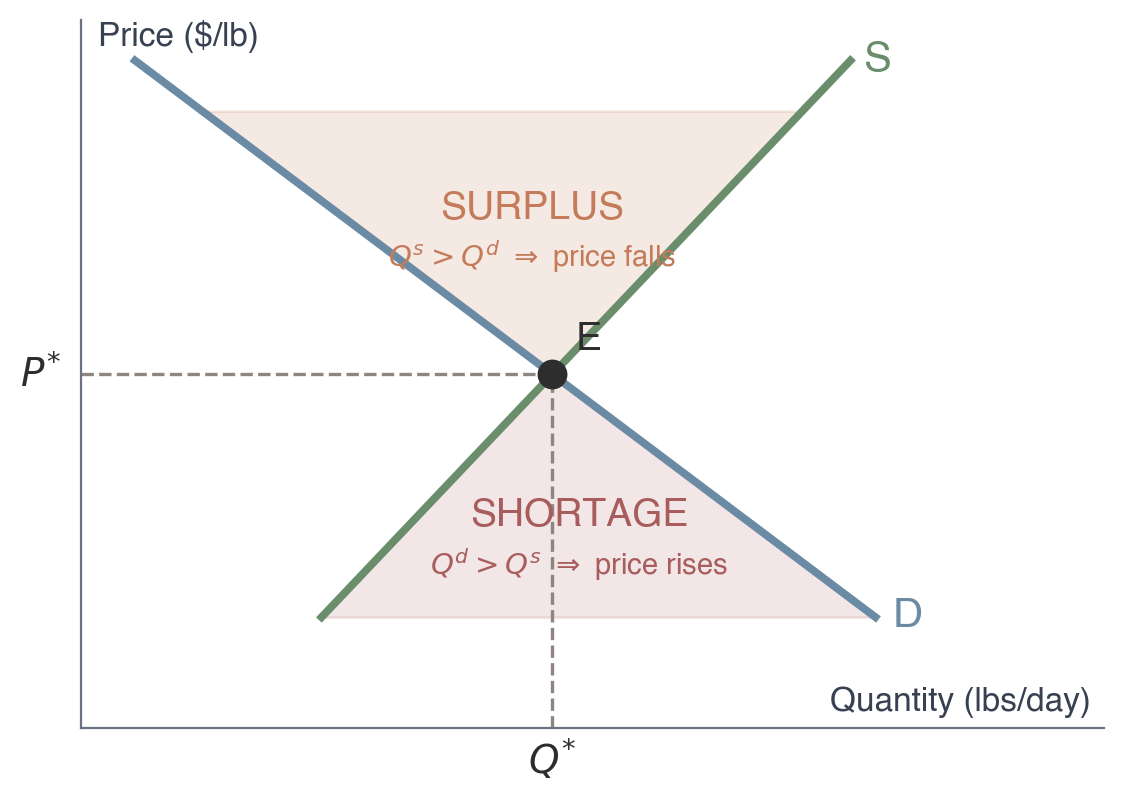
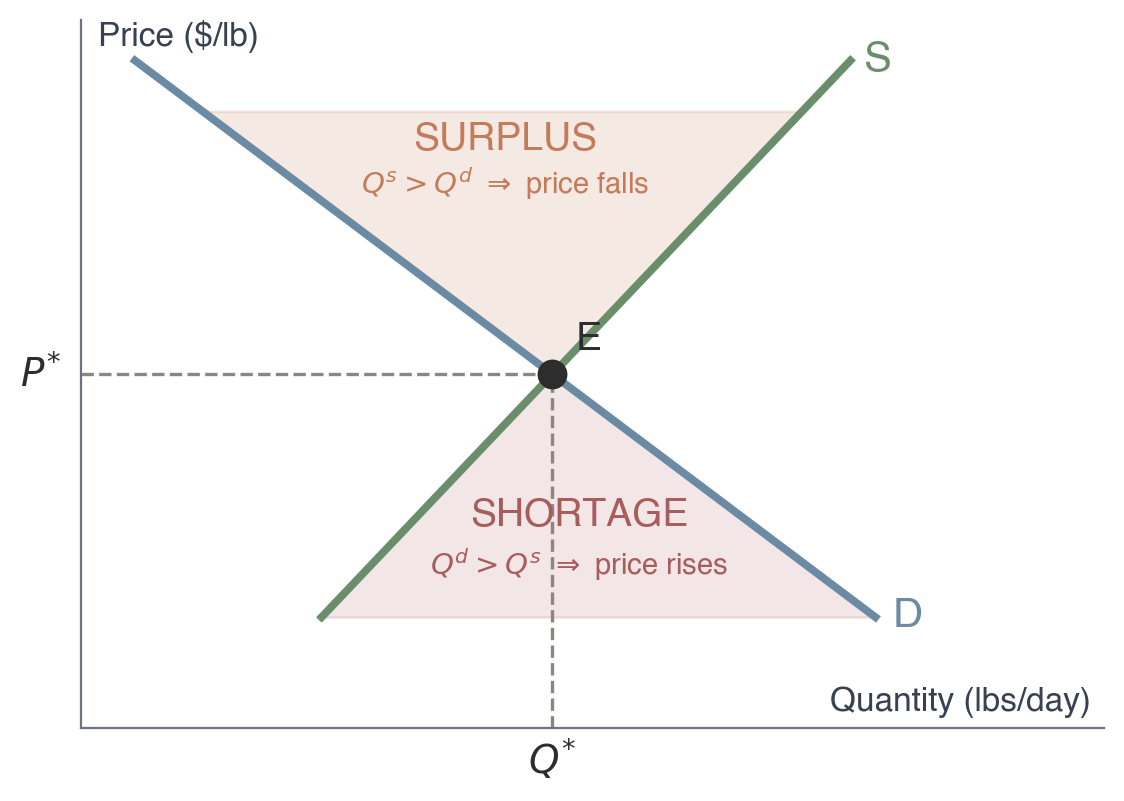
Ch 1 deck: split Maya into setup+solution, page 19 text-top/figures-bottom (Data left), move sandwich before circular-flow + add $12,680 forged-tools sequel, surplus text up

diff --git a/econ2316/ch01-adventures-in-microeconomics/index.html b/econ2316/ch01-adventures-in-microeconomics/index.html
@@ -274,6 +274,31 @@
 
 <!-- ===== Slide 6 — §1.1 the optimization template + Recall + fig 1-1 ===== -->
 
+      <section id="specialization">
+        <h2><i class="fa-solid fa-bread-slice" style="color: var(--accent-color);"></i> Why Nobody Builds a Sandwich From Scratch</h2>
+        <div style="display: grid; grid-template-columns: 0.92fr 1.08fr; gap: 18px; align-items: stretch;">
+          <div>
+            <div style="background: #fbf3ee; border-left: 4px solid var(--accent-color); border-radius: 8px; padding: 11px 16px; margin-bottom: 10px;">
+              <p style="font-size: 9.5pt; text-transform: uppercase; letter-spacing: 1px; color: var(--muted-color); font-weight: 700; margin: 0 0 2px;">2015 &mdash; sourced the food</p>
+              <p style="font-size: 25pt; font-weight: 800; color: var(--accent-color); margin: 0;">\$1,500</p>
+              <p style="font-size: 11.5pt; line-height: 1.45; margin: 4px 0 0;">Andy George (<em>How To Make Everything</em>) grew the wheat, evaporated seawater for salt, milked a cow, raised the chicken. Six months.</p>
+            </div>
+            <div style="background: #f6ece4; border-left: 4px solid var(--accent-color); border-radius: 8px; padding: 11px 16px;">
+              <p style="font-size: 9.5pt; text-transform: uppercase; letter-spacing: 1px; color: var(--muted-color); font-weight: 700; margin: 0 0 2px;">2025 &mdash; forged the tools too</p>
+              <p style="font-size: 25pt; font-weight: 800; color: var(--accent-color); margin: 0;">\$12,680</p>
+              <p style="font-size: 11.5pt; line-height: 1.45; margin: 4px 0 0;">The 10-year sequel: <em>extracting raw materials from the earth</em> &mdash; smelting iron, blowing glass, building tools, even hunting a hog with a handmade flintlock.</p>
+            </div>
+          </div>
+          <div>
+            <p style="font-size: 12.5pt; line-height: 1.5; margin: 0 0 8px;"><strong>Specialization and the gains from trade.</strong> A deli sandwich costs a few dollars because thousands of specialists &mdash; wheat farmers, beekeepers, dairies, bakers, toolmakers &mdash; each do the one thing they are relatively best at, then exchange.</p>
+            <div class="key-result" style="margin: 0;">
+              <p style="margin: 0; font-size: 12.5pt;">Every market in this book is machinery for coordinating that specialization. The deeper you go alone, the more the cost explodes &mdash; \$1,500 to \$12,680. The wage paying for all that effort returns as a factor price in <strong>Ch 19</strong>.</p>
+            </div>
+          </div>
+        </div>
+        <aside class="notes">The gains-from-trade hook. Andy George's How To Make Everything: in 2015 he made a chicken sandwich for ~$1,500 over six months by SOURCING every ingredient. For the 10-year anniversary (2025, "I Forged my Own Tools and Gun to Make This Sandwich From Scratch", ~1 hour) he went deeper - extracting raw materials and forging his own tools (smelt iron, throw ceramics, blow glass) and even a flintlock to hunt a hog - pushing the cost to ~$12,680. The escalation IS the lesson: self-sufficiency is absurdly expensive; specialization plus exchange is why a deli sandwich is a few dollars. This previews comparative advantage and the factor markets of Ch 19. Leads into the circular-flow diagram next - the whole-economy version of the same coordination.</aside>
+      </section>
+
       <section id="circular-flow">
         <h2><i class="fa-solid fa-arrows-spin" style="color: var(--accent-color);"></i> The Simplified Economy: Circular-Flow Diagram</h2>
         <div style="display: grid; grid-template-columns: 1.45fr 1fr; gap: 22px; align-items: center;">
@@ -391,28 +416,51 @@
 <!-- ===== Slide 8 — Walkthrough 1.1 Maya's time budget ===== -->
 <section id="walkthrough-1-1">
   <h2><i class="fa-solid fa-pen-to-square" style="color: var(--accent-color);"></i> Walkthrough 1.1 &mdash; A Student's Time Budget</h2>
-  <div style="display: grid; grid-template-columns: 1fr 1.12fr; gap: 20px; align-items: center;">
+  <div style="display: grid; grid-template-columns: 1.05fr 1fr; gap: 20px; align-items: center;">
     <div>
-      <div style="background: rgba(196, 123, 90, 0.10); border-left: 4px solid var(--accent-color); border-radius: 6px; padding: 9px 15px; margin: 0 0 10px;">
-        <p style="margin: 0; font-size: 11.5pt; line-height: 1.45;"><strong>Problem.</strong> Maya splits 97 free hours between study \(S\) and paid work \(W\) at \$18/hr. Study's value falls in blocks: \$30/hr (hrs 1&ndash;10), \$20 (11&ndash;20), \$15 (21&ndash;30), \$0 after.</p>
+      <div style="background: rgba(196, 123, 90, 0.10); border-left: 4px solid var(--accent-color); border-radius: 6px; padding: 10px 16px; margin: 0 0 12px;">
+        <p style="margin: 0; font-size: 12pt; line-height: 1.5;"><strong>Problem.</strong> Maya splits 97 free hours between study \(S\) and paid work \(W\) at \$18/hr. Study's value falls in blocks: \$30/hr (hrs 1&ndash;10), \$20 (11&ndash;20), \$15 (21&ndash;30), \$0 after. How should she split the 97 hours?</p>
       </div>
-      <div class="key-result" style="margin: 0 0 10px;">
-        <p style="margin: 0; font-size: 12pt;"><strong>Rule:</strong> give each hour to whichever pays more <em>at the margin</em> &mdash; study while its value beats the \$18 wage, switch to work once it drops below.</p>
-      </div>
-      <p style="font-size: 12.5pt; line-height: 1.5; margin: 0 0 9px;">Study wins through hour 20 (\$20 &gt; \$18); at hour 21 it falls to \$15 &lt; \$18. So <strong>\(S^{*}=20\)</strong>, <strong>\(W^{*}=77\)</strong>.</p>
-      <div style="background: #f1f5f8; border-radius: 8px; padding: 9px 15px;">
-        <p style="margin: 0; font-size: 12pt;">\[ V^{*} = \underbrace{10(30)+10(20)}_{\text{study}} + \underbrace{77(18)}_{\text{work}} = \$1{,}886 \]</p>
-      </div>
+      <p style="font-size: 12.5pt; font-weight: 700; margin: 0 0 6px;">Solve it in steps:</p>
+      <p class="fragment fade-up" style="font-size: 12.5pt; line-height: 1.5; margin: 0 0 5px;"><strong>1.</strong> List each study block's marginal value (MV).</p>
+      <p class="fragment fade-up" style="font-size: 12.5pt; line-height: 1.5; margin: 0 0 5px;"><strong>2.</strong> Compare each block to the flat \$18 wage.</p>
+      <p class="fragment fade-up" style="font-size: 12.5pt; line-height: 1.5; margin: 0;"><strong>3.</strong> Give each hour to whichever pays more <em>at the margin</em> &mdash; study while MV beats the wage.</p>
     </div>
     <div>
+      <table class="pm" style="font-size: 12.5pt; margin: 0 0 8px;">
+        <tr><th>Study block</th><th>MV/hr</th><th>vs \$18 wage</th></tr>
+        <tr><td>1&ndash;10</td><td>\$30</td><td class="hi">study</td></tr>
+        <tr><td>11&ndash;20</td><td>\$20</td><td class="hi">study</td></tr>
+        <tr><td>21&ndash;30</td><td>\$15</td><td>work</td></tr>
+        <tr><td>31+</td><td>\$0</td><td>work</td></tr>
+      </table>
+      <p style="font-size: 11.5pt; color: var(--muted-color); font-style: italic; margin: 0;">Study beats the wage through hour 20; at hour 21 its value drops below \$18.</p>
+    </div>
+  </div>
+  <aside class="notes">Setup slide. Read the problem, then lay out the method as three steps. The table is the engine: each study block's marginal value next to the flat $18 wage. Cold-call: where does study stop being worth it? The next slide solves it visually with the marginal-value staircase.</aside>
+</section>
+
+      <section id="walkthrough-1-1-solution">
+  <h2><i class="fa-solid fa-circle-check" style="color: var(--success-color);"></i> Walkthrough 1.1 &mdash; Solution</h2>
+  <div style="display: grid; grid-template-columns: 1.12fr 1fr; gap: 20px; align-items: center;">
+    <div>
       <img alt="Step chart: study's marginal value falls in blocks of $30, $20, $15, then $0, while the wage is a flat $18; Maya studies while marginal value exceeds the wage and switches to paid work at 20 hours of study" src="figures/maya-marginal-value.png" style="width: 100%; border-radius: 8px;">
+    </div>
+    <div>
+      <p style="font-size: 12.5pt; line-height: 1.5; margin: 0 0 10px;">Study wins through hour 20 (\$20 &gt; \$18); at hour 21 it drops to \$15 &lt; \$18 &mdash; the <strong>crossover</strong>.</p>
+      <div class="key-result" style="margin: 0 0 10px;">
+        <p style="margin: 0; font-size: 13pt;">\(S^{*}=20\) (study), \(W^{*}=77\) (work)</p>
+      </div>
+      <div style="background: #f1f5f8; border-radius: 8px; padding: 10px 15px;">
+        <p style="margin: 0; font-size: 12pt;">\[ V^{*} = \underbrace{10(30)+10(20)}_{\text{study}} + \underbrace{77(18)}_{\text{work}} = \$1{,}886 \]</p>
+      </div>
     </div>
   </div>
   <div class="heads-up" style="margin-top: 10px;">
     <p class="hu-tag"><i class="fa-solid fa-lightbulb"></i> Takeaway &mdash; the optimum is where the margins meet</p>
     <p class="body">The last hour of study is worth as much as the last hour of work. Raise the wage to \$25 and the switch flips to hour 11 &mdash; higher wages crowd out studying. In Ch 5 we swap the step function for a smooth utility function and solve the same problem with the Lagrangian. Maya recurs in Chs 5, 6, and 19.</p>
   </div>
-  <aside class="notes">The chart carries the intuition: study's marginal value is the descending blue staircase ($30, $20, $15, $0); the wage is the flat orange line at $18. She takes every hour whose bar sits ABOVE the wage line and switches the moment it drops below - the optimum is the crossover at S* = 20, W* = 77. No calculus needed because the steps are discrete - just compare each block to $18. Two ideas recur all book: the optimum sits where marginal value meets marginal opportunity cost, and the comparative static (wage to $25 shifts S* from 20 to 10) is the engine - change a parameter, re-solve, read the new optimum. Discrete steps foreshadow the corner solutions of Ch 5.</aside>
+  <aside class="notes">The chart carries the intuition: study's marginal value is the descending blue staircase ($30, $20, $15, $0); the wage is the flat orange line at $18. Take every hour whose bar sits ABOVE the wage line and switch the moment it drops below - the optimum is the crossover at S* = 20, W* = 77, value $1,886. The comparative static (wage to $25 shifts S* from 20 to 10) is the engine of the whole book.</aside>
 </section>
 
 <!-- ===== Slide 9 — Section divider §1.2 ===== -->
@@ -447,40 +495,31 @@
 
       <section id="equilibrium">
   <h2><i class="fa-solid fa-scale-balanced" style="color: var(--accent-color);"></i> Equilibrium Is a Mutual Best Response</h2>
-  <div style="display: grid; grid-template-columns: 1fr 1fr; gap: 20px; align-items: start;">
-    <div>
-      <div style="background: #fef2f2; border-left: 4px solid var(--danger-color); border-radius: 10px; padding: 11px 16px; margin-bottom: 10px;">
-        <p style="font-size: 10pt; text-transform: uppercase; letter-spacing: 1.2px; color: var(--danger-color); font-weight: 700; margin: 0 0 4px;">Wrong intuition</p>
-        <p style="font-size: 12.5pt; line-height: 1.5; margin: 0;">"Equilibrium" = a system at rest because <em>nothing is happening</em>.</p>
-      </div>
-      <div style="background: #f0f5f0; border-left: 4px solid var(--success-color); border-radius: 10px; padding: 11px 16px; margin-bottom: 10px;">
-        <p style="font-size: 10pt; text-transform: uppercase; letter-spacing: 1.2px; color: var(--success-color); font-weight: 700; margin: 0 0 4px;">Right intuition</p>
-        <p style="font-size: 12.5pt; line-height: 1.5; margin: 0 0 6px;">Each agent's action is already the <strong>optimal response</strong> to every other agent's. <strong>No one wants to change.</strong></p>
-        <p style="font-size: 12pt; line-height: 1.5; margin: 0; color: var(--text-color);">Shock it &rarr; agents re-optimize against each other's new best moves &rarr; a new mutual best-response.</p>
-      </div>
-      <div style="background: #f8f6f3; border-left: 4px solid var(--secondary-color); border-radius: 10px; padding: 11px 16px;">
-        <p style="font-size: 10pt; text-transform: uppercase; letter-spacing: 1.2px; color: var(--secondary-color); font-weight: 700; margin: 0 0 4px;">The interesting questions</p>
-        <p style="font-size: 12.5pt; line-height: 1.5; margin: 0;">Which way does the system move? How fast does it return?</p>
-      </div>
+  <div style="display: grid; grid-template-columns: 1fr 1.3fr 1fr; gap: 14px; margin-bottom: 12px; align-items: stretch;">
+    <div style="background: #fef2f2; border-left: 4px solid var(--danger-color); border-radius: 10px; padding: 10px 15px;">
+      <p style="font-size: 9.5pt; text-transform: uppercase; letter-spacing: 1.1px; color: var(--danger-color); font-weight: 700; margin: 0 0 4px;">Wrong intuition</p>
+      <p style="font-size: 12pt; line-height: 1.45; margin: 0;">"Equilibrium" = a system at rest because <em>nothing is happening</em>.</p>
     </div>
-    <div>
-      <p style="font-size: 11.5pt; line-height: 1.45; color: var(--muted-color); margin: 0 0 6px;">The egg market, 2022&ndash;25: avian flu culled ~168M laying hens &mdash; supply shifted sharply inward, demand barely moved.</p>
-      <div style="display: grid; grid-template-columns: 1fr 1fr; gap: 10px; align-items: start;">
-        <figure style="margin: 0;">
-          <img alt="Two-panel supply and demand diagram of the egg market: a leftward supply shift from the avian-flu hen loss moves equilibrium up and to the left, a large price rise with a small quantity fall because demand is steep" src="figures/figure-1-3-egg-shock.png" style="width: 100%; border-radius: 6px;">
-          <figcaption style="text-align: center; font-size: 10pt; color: var(--secondary-color); font-weight: 600; margin-top: 3px;">Theory: supply shifts in</figcaption>
-        </figure>
-        <figure style="margin: 0;">
-          <img alt="Time series of the FRED price per dozen Grade A large eggs from 2019 to 2025, with shaded bands over the two avian-flu culling episodes and a spike to nearly five dollars in early 2025" src="figures/figure-1-4-egg-prices-fred.png" style="width: 100%; border-radius: 6px;">
-          <figcaption style="text-align: center; font-size: 10pt; color: var(--secondary-color); font-weight: 600; margin-top: 3px;">Data: the price spike</figcaption>
-        </figure>
-      </div>
-      <div class="key-result" style="margin: 10px 0 0;">
-        <p style="margin: 0; font-size: 12pt;">Steep (inelastic) demand turns a supply shock into a big <strong>price</strong> move and a small <strong>quantity</strong> move &mdash; the Jan 2025 dozen hit \$4.95, up ~96% year-over-year.</p>
-      </div>
+    <div style="background: #f0f5f0; border-left: 4px solid var(--success-color); border-radius: 10px; padding: 10px 15px;">
+      <p style="font-size: 9.5pt; text-transform: uppercase; letter-spacing: 1.1px; color: var(--success-color); font-weight: 700; margin: 0 0 4px;">Right intuition</p>
+      <p style="font-size: 12pt; line-height: 1.45; margin: 0;">Each agent's action is already the <strong>optimal response</strong> to every other's. <strong>No one wants to change.</strong> Shock it &rarr; agents re-optimize &rarr; a new mutual best-response.</p>
+    </div>
+    <div style="background: #f8f6f3; border-left: 4px solid var(--secondary-color); border-radius: 10px; padding: 10px 15px;">
+      <p style="font-size: 9.5pt; text-transform: uppercase; letter-spacing: 1.1px; color: var(--secondary-color); font-weight: 700; margin: 0 0 4px;">The interesting questions</p>
+      <p style="font-size: 12pt; line-height: 1.45; margin: 0;">Which way does the system move? How fast does it return?</p>
     </div>
   </div>
-  <aside class="notes">The everyday meaning of "equilibrium" - a system at rest - is misleading. It is at rest not because nothing happens but because each agent's action is already the optimal response to everyone else's. Shock it and it leaves equilibrium; which way it moves and how fast it returns need more structure than the bare definition - that is the whole agenda of Ch 2-3. The egg market is the cleanest recent illustration: an inward supply shift against steep demand lands almost entirely on price. The short-run/long-run distinction (supply near-vertical now, flatter once flocks rebuild) returns formally in Chs 8-10. FRED series APU0000708111.</aside>
+  <div style="display: grid; grid-template-columns: 1fr 1fr; gap: 18px; align-items: start;">
+    <figure style="margin: 0;">
+      <img alt="Time series of the FRED price per dozen Grade A large eggs from 2019 to 2025, with shaded bands over the two avian-flu culling episodes and a spike to nearly five dollars in early 2025" src="figures/figure-1-4-egg-prices-fred.png" style="width: 100%; border-radius: 6px;">
+      <figcaption style="text-align: center; font-size: 10.5pt; color: var(--secondary-color); font-weight: 600; margin-top: 3px;">Data: the price spike &mdash; Jan 2025 dozen hit \$4.95, +96% YoY</figcaption>
+    </figure>
+    <figure style="margin: 0;">
+      <img alt="Two-panel supply and demand diagram of the egg market: a leftward supply shift from the avian-flu hen loss moves equilibrium up and to the left, a large price rise with a small quantity fall because demand is steep" src="figures/figure-1-3-egg-shock.png" style="width: 100%; border-radius: 6px;">
+      <figcaption style="text-align: center; font-size: 10.5pt; color: var(--secondary-color); font-weight: 600; margin-top: 3px;">Theory: supply shifts in &mdash; steep demand &rArr; big price, small quantity move</figcaption>
+    </figure>
+  </div>
+  <aside class="notes">Equilibrium is at rest not because nothing happens but because each agent's action is already the optimal response to everyone else's. The egg market (2022-25): avian flu culled ~168M hens, an inward supply shift against steep demand that landed almost entirely on price. Theory (the S/D shift) predicts the direction; data (the FRED spike to $4.95, +96%) shows the size. The short-run/long-run distinction returns in Chs 8-10. FRED APU0000708111.</aside>
 </section>
 
       <section id="information-key">
@@ -564,23 +603,6 @@
               <p style="margin: 0 0 6px; font-size: 12.5pt;"><strong>A thread we pull all term:</strong></p>
               <p style="margin: 0 0 4px; font-size: 12pt;"><i class="fa-solid fa-arrow-right" style="color: var(--secondary-color);"></i> Modeled formally in <strong>Ch 2</strong> (supply &amp; demand).</p>
               <p style="margin: 0; font-size: 12pt;"><i class="fa-solid fa-arrow-right" style="color: var(--secondary-color);"></i> Again as <strong>price discrimination</strong> in <strong>Ch 12</strong>.</p>
-            </div>
-          </div>
-        </div>
-      </section>
-
-      <section id="specialization">
-        <h2><i class="fa-solid fa-bread-slice" style="color: var(--accent-color);"></i> Why Nobody Builds a Sandwich From Scratch</h2>
-        <div style="display: grid; grid-template-columns: 0.85fr 1.15fr; gap: 16px; align-items: start;">
-          <div style="background: #fbf3ee; border-left: 4px solid var(--accent-color); border-radius: 8px; padding: 14px 18px;">
-            <p style="font-size: 30pt; font-weight: 800; color: var(--accent-color); margin: 0;">\$1,500</p>
-            <p style="font-size: 12.5pt; line-height: 1.5; margin: 6px 0 0;">Andy George (<em>How To Make Everything</em>) grew the wheat, evaporated seawater for salt, milked a cow, raised the chicken.</p>
-            <p style="font-size: 12pt; color: var(--muted-color); margin: 6px 0 0;">Six months. One sandwich.</p>
-          </div>
-          <div>
-            <p style="font-size: 12.5pt; line-height: 1.5; margin: 0 0 8px;"><strong>Specialization and the gains from trade.</strong> A deli sandwich costs a few dollars because thousands of specialists &mdash; wheat farmers, beekeepers, dairies, bakers &mdash; each do the one thing they are relatively best at, then exchange.</p>
-            <div class="key-result" style="margin: 0;">
-              <p style="margin: 0; font-size: 12.5pt;">Every market in this book is machinery for coordinating that specialization. <strong>Equilibrium = all those plans meshing.</strong> The wage paying for those six months returns as a factor price in <strong>Ch 19</strong>.</p>
             </div>
           </div>
         </div>

diff --git a/econ2316/ch01-adventures-in-microeconomics/presentation.html b/econ2316/ch01-adventures-in-microeconomics/presentation.html
@@ -274,6 +274,31 @@
 
 <!-- ===== Slide 6 — §1.1 the optimization template + Recall + fig 1-1 ===== -->
 
+      <section id="specialization">
+        <h2><i class="fa-solid fa-bread-slice" style="color: var(--accent-color);"></i> Why Nobody Builds a Sandwich From Scratch</h2>
+        <div style="display: grid; grid-template-columns: 0.92fr 1.08fr; gap: 18px; align-items: stretch;">
+          <div>
+            <div style="background: #fbf3ee; border-left: 4px solid var(--accent-color); border-radius: 8px; padding: 11px 16px; margin-bottom: 10px;">
+              <p style="font-size: 9.5pt; text-transform: uppercase; letter-spacing: 1px; color: var(--muted-color); font-weight: 700; margin: 0 0 2px;">2015 &mdash; sourced the food</p>
+              <p style="font-size: 25pt; font-weight: 800; color: var(--accent-color); margin: 0;">\$1,500</p>
+              <p style="font-size: 11.5pt; line-height: 1.45; margin: 4px 0 0;">Andy George (<em>How To Make Everything</em>) grew the wheat, evaporated seawater for salt, milked a cow, raised the chicken. Six months.</p>
+            </div>
+            <div style="background: #f6ece4; border-left: 4px solid var(--accent-color); border-radius: 8px; padding: 11px 16px;">
+              <p style="font-size: 9.5pt; text-transform: uppercase; letter-spacing: 1px; color: var(--muted-color); font-weight: 700; margin: 0 0 2px;">2025 &mdash; forged the tools too</p>
+              <p style="font-size: 25pt; font-weight: 800; color: var(--accent-color); margin: 0;">\$12,680</p>
+              <p style="font-size: 11.5pt; line-height: 1.45; margin: 4px 0 0;">The 10-year sequel: <em>extracting raw materials from the earth</em> &mdash; smelting iron, blowing glass, building tools, even hunting a hog with a handmade flintlock.</p>
+            </div>
+          </div>
+          <div>
+            <p style="font-size: 12.5pt; line-height: 1.5; margin: 0 0 8px;"><strong>Specialization and the gains from trade.</strong> A deli sandwich costs a few dollars because thousands of specialists &mdash; wheat farmers, beekeepers, dairies, bakers, toolmakers &mdash; each do the one thing they are relatively best at, then exchange.</p>
+            <div class="key-result" style="margin: 0;">
+              <p style="margin: 0; font-size: 12.5pt;">Every market in this book is machinery for coordinating that specialization. The deeper you go alone, the more the cost explodes &mdash; \$1,500 to \$12,680. The wage paying for all that effort returns as a factor price in <strong>Ch 19</strong>.</p>
+            </div>
+          </div>
+        </div>
+        <aside class="notes">The gains-from-trade hook. Andy George's How To Make Everything: in 2015 he made a chicken sandwich for ~$1,500 over six months by SOURCING every ingredient. For the 10-year anniversary (2025, "I Forged my Own Tools and Gun to Make This Sandwich From Scratch", ~1 hour) he went deeper - extracting raw materials and forging his own tools (smelt iron, throw ceramics, blow glass) and even a flintlock to hunt a hog - pushing the cost to ~$12,680. The escalation IS the lesson: self-sufficiency is absurdly expensive; specialization plus exchange is why a deli sandwich is a few dollars. This previews comparative advantage and the factor markets of Ch 19. Leads into the circular-flow diagram next - the whole-economy version of the same coordination.</aside>
+      </section>
+
       <section id="circular-flow">
         <h2><i class="fa-solid fa-arrows-spin" style="color: var(--accent-color);"></i> The Simplified Economy: Circular-Flow Diagram</h2>
         <div style="display: grid; grid-template-columns: 1.45fr 1fr; gap: 22px; align-items: center;">
@@ -391,28 +416,51 @@
 <!-- ===== Slide 8 — Walkthrough 1.1 Maya's time budget ===== -->
 <section id="walkthrough-1-1">
   <h2><i class="fa-solid fa-pen-to-square" style="color: var(--accent-color);"></i> Walkthrough 1.1 &mdash; A Student's Time Budget</h2>
-  <div style="display: grid; grid-template-columns: 1fr 1.12fr; gap: 20px; align-items: center;">
+  <div style="display: grid; grid-template-columns: 1.05fr 1fr; gap: 20px; align-items: center;">
     <div>
-      <div style="background: rgba(196, 123, 90, 0.10); border-left: 4px solid var(--accent-color); border-radius: 6px; padding: 9px 15px; margin: 0 0 10px;">
-        <p style="margin: 0; font-size: 11.5pt; line-height: 1.45;"><strong>Problem.</strong> Maya splits 97 free hours between study \(S\) and paid work \(W\) at \$18/hr. Study's value falls in blocks: \$30/hr (hrs 1&ndash;10), \$20 (11&ndash;20), \$15 (21&ndash;30), \$0 after.</p>
+      <div style="background: rgba(196, 123, 90, 0.10); border-left: 4px solid var(--accent-color); border-radius: 6px; padding: 10px 16px; margin: 0 0 12px;">
+        <p style="margin: 0; font-size: 12pt; line-height: 1.5;"><strong>Problem.</strong> Maya splits 97 free hours between study \(S\) and paid work \(W\) at \$18/hr. Study's value falls in blocks: \$30/hr (hrs 1&ndash;10), \$20 (11&ndash;20), \$15 (21&ndash;30), \$0 after. How should she split the 97 hours?</p>
       </div>
-      <div class="key-result" style="margin: 0 0 10px;">
-        <p style="margin: 0; font-size: 12pt;"><strong>Rule:</strong> give each hour to whichever pays more <em>at the margin</em> &mdash; study while its value beats the \$18 wage, switch to work once it drops below.</p>
-      </div>
-      <p style="font-size: 12.5pt; line-height: 1.5; margin: 0 0 9px;">Study wins through hour 20 (\$20 &gt; \$18); at hour 21 it falls to \$15 &lt; \$18. So <strong>\(S^{*}=20\)</strong>, <strong>\(W^{*}=77\)</strong>.</p>
-      <div style="background: #f1f5f8; border-radius: 8px; padding: 9px 15px;">
-        <p style="margin: 0; font-size: 12pt;">\[ V^{*} = \underbrace{10(30)+10(20)}_{\text{study}} + \underbrace{77(18)}_{\text{work}} = \$1{,}886 \]</p>
-      </div>
+      <p style="font-size: 12.5pt; font-weight: 700; margin: 0 0 6px;">Solve it in steps:</p>
+      <p class="fragment fade-up" style="font-size: 12.5pt; line-height: 1.5; margin: 0 0 5px;"><strong>1.</strong> List each study block's marginal value (MV).</p>
+      <p class="fragment fade-up" style="font-size: 12.5pt; line-height: 1.5; margin: 0 0 5px;"><strong>2.</strong> Compare each block to the flat \$18 wage.</p>
+      <p class="fragment fade-up" style="font-size: 12.5pt; line-height: 1.5; margin: 0;"><strong>3.</strong> Give each hour to whichever pays more <em>at the margin</em> &mdash; study while MV beats the wage.</p>
     </div>
     <div>
+      <table class="pm" style="font-size: 12.5pt; margin: 0 0 8px;">
+        <tr><th>Study block</th><th>MV/hr</th><th>vs \$18 wage</th></tr>
+        <tr><td>1&ndash;10</td><td>\$30</td><td class="hi">study</td></tr>
+        <tr><td>11&ndash;20</td><td>\$20</td><td class="hi">study</td></tr>
+        <tr><td>21&ndash;30</td><td>\$15</td><td>work</td></tr>
+        <tr><td>31+</td><td>\$0</td><td>work</td></tr>
+      </table>
+      <p style="font-size: 11.5pt; color: var(--muted-color); font-style: italic; margin: 0;">Study beats the wage through hour 20; at hour 21 its value drops below \$18.</p>
+    </div>
+  </div>
+  <aside class="notes">Setup slide. Read the problem, then lay out the method as three steps. The table is the engine: each study block's marginal value next to the flat $18 wage. Cold-call: where does study stop being worth it? The next slide solves it visually with the marginal-value staircase.</aside>
+</section>
+
+      <section id="walkthrough-1-1-solution">
+  <h2><i class="fa-solid fa-circle-check" style="color: var(--success-color);"></i> Walkthrough 1.1 &mdash; Solution</h2>
+  <div style="display: grid; grid-template-columns: 1.12fr 1fr; gap: 20px; align-items: center;">
+    <div>
       <img alt="Step chart: study's marginal value falls in blocks of $30, $20, $15, then $0, while the wage is a flat $18; Maya studies while marginal value exceeds the wage and switches to paid work at 20 hours of study" src="figures/maya-marginal-value.png" style="width: 100%; border-radius: 8px;">
+    </div>
+    <div>
+      <p style="font-size: 12.5pt; line-height: 1.5; margin: 0 0 10px;">Study wins through hour 20 (\$20 &gt; \$18); at hour 21 it drops to \$15 &lt; \$18 &mdash; the <strong>crossover</strong>.</p>
+      <div class="key-result" style="margin: 0 0 10px;">
+        <p style="margin: 0; font-size: 13pt;">\(S^{*}=20\) (study), \(W^{*}=77\) (work)</p>
+      </div>
+      <div style="background: #f1f5f8; border-radius: 8px; padding: 10px 15px;">
+        <p style="margin: 0; font-size: 12pt;">\[ V^{*} = \underbrace{10(30)+10(20)}_{\text{study}} + \underbrace{77(18)}_{\text{work}} = \$1{,}886 \]</p>
+      </div>
     </div>
   </div>
   <div class="heads-up" style="margin-top: 10px;">
     <p class="hu-tag"><i class="fa-solid fa-lightbulb"></i> Takeaway &mdash; the optimum is where the margins meet</p>
     <p class="body">The last hour of study is worth as much as the last hour of work. Raise the wage to \$25 and the switch flips to hour 11 &mdash; higher wages crowd out studying. In Ch 5 we swap the step function for a smooth utility function and solve the same problem with the Lagrangian. Maya recurs in Chs 5, 6, and 19.</p>
   </div>
-  <aside class="notes">The chart carries the intuition: study's marginal value is the descending blue staircase ($30, $20, $15, $0); the wage is the flat orange line at $18. She takes every hour whose bar sits ABOVE the wage line and switches the moment it drops below - the optimum is the crossover at S* = 20, W* = 77. No calculus needed because the steps are discrete - just compare each block to $18. Two ideas recur all book: the optimum sits where marginal value meets marginal opportunity cost, and the comparative static (wage to $25 shifts S* from 20 to 10) is the engine - change a parameter, re-solve, read the new optimum. Discrete steps foreshadow the corner solutions of Ch 5.</aside>
+  <aside class="notes">The chart carries the intuition: study's marginal value is the descending blue staircase ($30, $20, $15, $0); the wage is the flat orange line at $18. Take every hour whose bar sits ABOVE the wage line and switch the moment it drops below - the optimum is the crossover at S* = 20, W* = 77, value $1,886. The comparative static (wage to $25 shifts S* from 20 to 10) is the engine of the whole book.</aside>
 </section>
 
 <!-- ===== Slide 9 — Section divider §1.2 ===== -->
@@ -447,40 +495,31 @@
 
       <section id="equilibrium">
   <h2><i class="fa-solid fa-scale-balanced" style="color: var(--accent-color);"></i> Equilibrium Is a Mutual Best Response</h2>
-  <div style="display: grid; grid-template-columns: 1fr 1fr; gap: 20px; align-items: start;">
-    <div>
-      <div style="background: #fef2f2; border-left: 4px solid var(--danger-color); border-radius: 10px; padding: 11px 16px; margin-bottom: 10px;">
-        <p style="font-size: 10pt; text-transform: uppercase; letter-spacing: 1.2px; color: var(--danger-color); font-weight: 700; margin: 0 0 4px;">Wrong intuition</p>
-        <p style="font-size: 12.5pt; line-height: 1.5; margin: 0;">"Equilibrium" = a system at rest because <em>nothing is happening</em>.</p>
-      </div>
-      <div style="background: #f0f5f0; border-left: 4px solid var(--success-color); border-radius: 10px; padding: 11px 16px; margin-bottom: 10px;">
-        <p style="font-size: 10pt; text-transform: uppercase; letter-spacing: 1.2px; color: var(--success-color); font-weight: 700; margin: 0 0 4px;">Right intuition</p>
-        <p style="font-size: 12.5pt; line-height: 1.5; margin: 0 0 6px;">Each agent's action is already the <strong>optimal response</strong> to every other agent's. <strong>No one wants to change.</strong></p>
-        <p style="font-size: 12pt; line-height: 1.5; margin: 0; color: var(--text-color);">Shock it &rarr; agents re-optimize against each other's new best moves &rarr; a new mutual best-response.</p>
-      </div>
-      <div style="background: #f8f6f3; border-left: 4px solid var(--secondary-color); border-radius: 10px; padding: 11px 16px;">
-        <p style="font-size: 10pt; text-transform: uppercase; letter-spacing: 1.2px; color: var(--secondary-color); font-weight: 700; margin: 0 0 4px;">The interesting questions</p>
-        <p style="font-size: 12.5pt; line-height: 1.5; margin: 0;">Which way does the system move? How fast does it return?</p>
-      </div>
+  <div style="display: grid; grid-template-columns: 1fr 1.3fr 1fr; gap: 14px; margin-bottom: 12px; align-items: stretch;">
+    <div style="background: #fef2f2; border-left: 4px solid var(--danger-color); border-radius: 10px; padding: 10px 15px;">
+      <p style="font-size: 9.5pt; text-transform: uppercase; letter-spacing: 1.1px; color: var(--danger-color); font-weight: 700; margin: 0 0 4px;">Wrong intuition</p>
+      <p style="font-size: 12pt; line-height: 1.45; margin: 0;">"Equilibrium" = a system at rest because <em>nothing is happening</em>.</p>
     </div>
-    <div>
-      <p style="font-size: 11.5pt; line-height: 1.45; color: var(--muted-color); margin: 0 0 6px;">The egg market, 2022&ndash;25: avian flu culled ~168M laying hens &mdash; supply shifted sharply inward, demand barely moved.</p>
-      <div style="display: grid; grid-template-columns: 1fr 1fr; gap: 10px; align-items: start;">
-        <figure style="margin: 0;">
-          <img alt="Two-panel supply and demand diagram of the egg market: a leftward supply shift from the avian-flu hen loss moves equilibrium up and to the left, a large price rise with a small quantity fall because demand is steep" src="figures/figure-1-3-egg-shock.png" style="width: 100%; border-radius: 6px;">
-          <figcaption style="text-align: center; font-size: 10pt; color: var(--secondary-color); font-weight: 600; margin-top: 3px;">Theory: supply shifts in</figcaption>
-        </figure>
-        <figure style="margin: 0;">
-          <img alt="Time series of the FRED price per dozen Grade A large eggs from 2019 to 2025, with shaded bands over the two avian-flu culling episodes and a spike to nearly five dollars in early 2025" src="figures/figure-1-4-egg-prices-fred.png" style="width: 100%; border-radius: 6px;">
-          <figcaption style="text-align: center; font-size: 10pt; color: var(--secondary-color); font-weight: 600; margin-top: 3px;">Data: the price spike</figcaption>
-        </figure>
-      </div>
-      <div class="key-result" style="margin: 10px 0 0;">
-        <p style="margin: 0; font-size: 12pt;">Steep (inelastic) demand turns a supply shock into a big <strong>price</strong> move and a small <strong>quantity</strong> move &mdash; the Jan 2025 dozen hit \$4.95, up ~96% year-over-year.</p>
-      </div>
+    <div style="background: #f0f5f0; border-left: 4px solid var(--success-color); border-radius: 10px; padding: 10px 15px;">
+      <p style="font-size: 9.5pt; text-transform: uppercase; letter-spacing: 1.1px; color: var(--success-color); font-weight: 700; margin: 0 0 4px;">Right intuition</p>
+      <p style="font-size: 12pt; line-height: 1.45; margin: 0;">Each agent's action is already the <strong>optimal response</strong> to every other's. <strong>No one wants to change.</strong> Shock it &rarr; agents re-optimize &rarr; a new mutual best-response.</p>
+    </div>
+    <div style="background: #f8f6f3; border-left: 4px solid var(--secondary-color); border-radius: 10px; padding: 10px 15px;">
+      <p style="font-size: 9.5pt; text-transform: uppercase; letter-spacing: 1.1px; color: var(--secondary-color); font-weight: 700; margin: 0 0 4px;">The interesting questions</p>
+      <p style="font-size: 12pt; line-height: 1.45; margin: 0;">Which way does the system move? How fast does it return?</p>
     </div>
   </div>
-  <aside class="notes">The everyday meaning of "equilibrium" - a system at rest - is misleading. It is at rest not because nothing happens but because each agent's action is already the optimal response to everyone else's. Shock it and it leaves equilibrium; which way it moves and how fast it returns need more structure than the bare definition - that is the whole agenda of Ch 2-3. The egg market is the cleanest recent illustration: an inward supply shift against steep demand lands almost entirely on price. The short-run/long-run distinction (supply near-vertical now, flatter once flocks rebuild) returns formally in Chs 8-10. FRED series APU0000708111.</aside>
+  <div style="display: grid; grid-template-columns: 1fr 1fr; gap: 18px; align-items: start;">
+    <figure style="margin: 0;">
+      <img alt="Time series of the FRED price per dozen Grade A large eggs from 2019 to 2025, with shaded bands over the two avian-flu culling episodes and a spike to nearly five dollars in early 2025" src="figures/figure-1-4-egg-prices-fred.png" style="width: 100%; border-radius: 6px;">
+      <figcaption style="text-align: center; font-size: 10.5pt; color: var(--secondary-color); font-weight: 600; margin-top: 3px;">Data: the price spike &mdash; Jan 2025 dozen hit \$4.95, +96% YoY</figcaption>
+    </figure>
+    <figure style="margin: 0;">
+      <img alt="Two-panel supply and demand diagram of the egg market: a leftward supply shift from the avian-flu hen loss moves equilibrium up and to the left, a large price rise with a small quantity fall because demand is steep" src="figures/figure-1-3-egg-shock.png" style="width: 100%; border-radius: 6px;">
+      <figcaption style="text-align: center; font-size: 10.5pt; color: var(--secondary-color); font-weight: 600; margin-top: 3px;">Theory: supply shifts in &mdash; steep demand &rArr; big price, small quantity move</figcaption>
+    </figure>
+  </div>
+  <aside class="notes">Equilibrium is at rest not because nothing happens but because each agent's action is already the optimal response to everyone else's. The egg market (2022-25): avian flu culled ~168M hens, an inward supply shift against steep demand that landed almost entirely on price. Theory (the S/D shift) predicts the direction; data (the FRED spike to $4.95, +96%) shows the size. The short-run/long-run distinction returns in Chs 8-10. FRED APU0000708111.</aside>
 </section>
 
       <section id="information-key">
@@ -564,23 +603,6 @@
               <p style="margin: 0 0 6px; font-size: 12.5pt;"><strong>A thread we pull all term:</strong></p>
               <p style="margin: 0 0 4px; font-size: 12pt;"><i class="fa-solid fa-arrow-right" style="color: var(--secondary-color);"></i> Modeled formally in <strong>Ch 2</strong> (supply &amp; demand).</p>
               <p style="margin: 0; font-size: 12pt;"><i class="fa-solid fa-arrow-right" style="color: var(--secondary-color);"></i> Again as <strong>price discrimination</strong> in <strong>Ch 12</strong>.</p>
-            </div>
-          </div>
-        </div>
-      </section>
-
-      <section id="specialization">
-        <h2><i class="fa-solid fa-bread-slice" style="color: var(--accent-color);"></i> Why Nobody Builds a Sandwich From Scratch</h2>
-        <div style="display: grid; grid-template-columns: 0.85fr 1.15fr; gap: 16px; align-items: start;">
-          <div style="background: #fbf3ee; border-left: 4px solid var(--accent-color); border-radius: 8px; padding: 14px 18px;">
-            <p style="font-size: 30pt; font-weight: 800; color: var(--accent-color); margin: 0;">\$1,500</p>
-            <p style="font-size: 12.5pt; line-height: 1.5; margin: 6px 0 0;">Andy George (<em>How To Make Everything</em>) grew the wheat, evaporated seawater for salt, milked a cow, raised the chicken.</p>
-            <p style="font-size: 12pt; color: var(--muted-color); margin: 6px 0 0;">Six months. One sandwich.</p>
-          </div>
-          <div>
-            <p style="font-size: 12.5pt; line-height: 1.5; margin: 0 0 8px;"><strong>Specialization and the gains from trade.</strong> A deli sandwich costs a few dollars because thousands of specialists &mdash; wheat farmers, beekeepers, dairies, bakers &mdash; each do the one thing they are relatively best at, then exchange.</p>
-            <div class="key-result" style="margin: 0;">
-              <p style="margin: 0; font-size: 12.5pt;">Every market in this book is machinery for coordinating that specialization. <strong>Equilibrium = all those plans meshing.</strong> The wage paying for those six months returns as a factor price in <strong>Ch 19</strong>.</p>
             </div>
           </div>
         </div>

diff --git a/econ2316/ch01-adventures-in-microeconomics/figures/render_market_eq.py b/econ2316/ch01-adventures-in-microeconomics/figures/render_market_eq.py
@@ -48,8 +48,8 @@ ax.text(-3000, Pstar, "$P^{*}$", color=C["text"], fontsize=14, fontweight="bold"
 ax.text(Qstar, -0.22, "$Q^{*}$", color=C["text"], fontsize=14, fontweight="bold", ha="center")
 
 # region captions — centered inside each wedge -------------------------------
-ax.text(67000, 2.52, "SURPLUS", color=C["surplus"], fontsize=14, fontweight="bold", ha="center")
-ax.text(67000, 2.28, "$Q^{s}>Q^{d}\\ \\Rightarrow$ price falls", color=C["surplus"], fontsize=10.5, ha="center", fontstyle="italic")
+ax.text(63000, 2.86, "SURPLUS", color=C["surplus"], fontsize=14, fontweight="bold", ha="center")
+ax.text(63000, 2.64, "$Q^{s}>Q^{d}\\ \\Rightarrow$ price falls", color=C["surplus"], fontsize=10.5, ha="center", fontstyle="italic")
 ax.text(74000, 1.00, "SHORTAGE", color=C["shortage"], fontsize=14, fontweight="bold", ha="center")
 ax.text(74000, 0.76, "$Q^{d}>Q^{s}\\ \\Rightarrow$ price rises", color=C["shortage"], fontsize=10.5, ha="center", fontstyle="italic")
 
